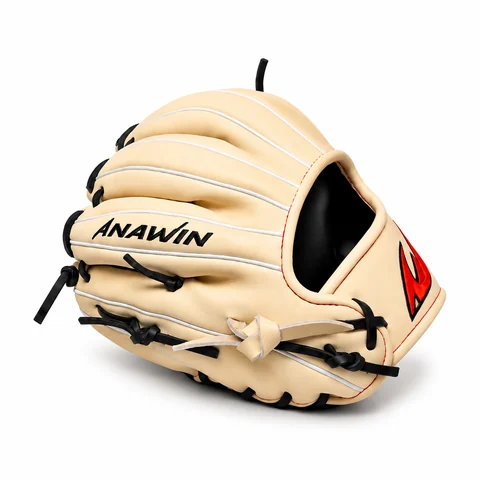
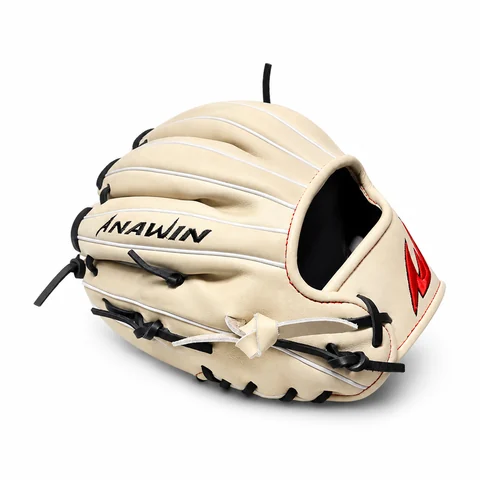
Set CM24 price to 285 and update finger-side photo

Changed region(s): [[0.0625, 0.125, 0.9375, 0.875], [0.5625, 0.3438, 0.5938, 0.375], [0.5625, 0.2812, 0.5938, 0.3125]]

diff --git a/src/catalog.js b/src/catalog.js
@@ -87,7 +87,7 @@ const fullSizeAngles = Object.freeze([
 const fullSizePhotoSizes = Object.freeze({
   mint: { back: 1254, palm: 1202, side: 1254, 'finger-side': 1254 },
   black: { back: 1271, palm: 1276, side: 1442, 'finger-side': 1208 },
-  camel: { back: 1198, palm: 1244, side: 612, 'finger-side': 1230 },
+  camel: { back: 1198, palm: 1244, side: 612, 'finger-side': 1119 },
   orange: { back: 456, palm: 408, side: 1206, 'finger-side': 522 }
 });
 const fullSizePhotos = (color, tone) => fullSizeAngles.map(([angle, view]) => ({
@@ -126,7 +126,7 @@ export const fullSizeProducts = Object.freeze([
   {
     id: 'full-mint', color: 'mint', name: 'MI26', line: 'full-size', comingSoon: true,
     title: 'Mint 12″ Japanese Kip Pitcher’s Glove', descriptor: '12″ Japanese Kip Pitcher’s Glove',
-    price: 290, currencyCode: 'USD', throwHands: bothThrowHands,
+    price: 285, currencyCode: 'USD', throwHands: bothThrowHands,
     pitch: 'A 12-inch Japanese Kip pitcher’s glove with a closed web and an external index finger hood. The solid panel helps keep your grip out of view on the mound, and the carved design on the outside gives this glove its signature look. If you wear your index finger outside the glove, you can tuck it under the hood.',
     specs: fullSizeSpecs('12', 'Pitcher', 'Closed web with a carved outer design', [['Index finger', 'External finger hood'], ['Wrist lining', 'Fur']], bothThrowHands),
     metaDescription: 'ANAWIN Mint is a 12-inch Japanese Kip pitcher’s glove with a carved closed web and index finger hood. Choose right-hand or left-hand throw.',
@@ -135,7 +135,7 @@ export const fullSizeProducts = Object.freeze([
   {
     id: 'full-black', color: 'black', name: 'BL50', line: 'full-size', comingSoon: true,
     title: 'Black 12.75″ Japanese Kip Outfield Glove', descriptor: '12.75″ Japanese Kip Outfield Glove',
-    price: 290, currencyCode: 'USD', throwHands: bothThrowHands,
+    price: 285, currencyCode: 'USD', throwHands: bothThrowHands,
     pitch: 'A 12.75-inch Japanese Kip glove built for the outfield. It’s the longest model in the ANAWIN Kip Series and pairs that extra length with an open H-web. A carved ANAWIN logo on the thumb adds detail to the all-black design.',
     specs: fullSizeSpecs('12.75', 'Outfield', 'H-web', [['Thumb detail', 'Carved ANAWIN logo'], ['Wrist lining', 'Fur']], bothThrowHands),
     metaDescription: 'ANAWIN Black is a 12.75-inch Japanese Kip outfield glove with an H-web and carved thumb logo. Choose right-hand or left-hand throw.',
@@ -144,7 +144,7 @@ export const fullSizeProducts = Object.freeze([
   {
     id: 'full-camel', color: 'camel', name: 'CM24', line: 'full-size', comingSoon: true,
     title: 'Camel 11.5″ Japanese Kip Infield Glove', descriptor: '11.5″ Japanese Kip Infield Glove',
-    price: 290, currencyCode: 'USD', throwHands: rightHandOnly,
+    price: 285, currencyCode: 'USD', throwHands: rightHandOnly,
     pitch: 'An 11.5-inch Japanese Kip infield glove with a Diamond web. Camel is the more compact of the two infield models. Inside, every finger stall is lined with sheepskin, and a moisture-wicking pad sits at the wrist.',
     specs: fullSizeSpecs('11.5', 'Infield', 'Diamond web', [['Finger stall lining', 'Sheepskin in all finger stalls'], ['Wrist', 'Moisture-wicking pad']], rightHandOnly),
     metaDescription: 'ANAWIN Camel is an 11.5-inch Japanese Kip infield glove with a Diamond web, sheepskin-lined finger stalls, and a moisture-wicking wrist pad.',
@@ -153,7 +153,7 @@ export const fullSizeProducts = Object.freeze([
   {
     id: 'full-orange', color: 'orange', name: 'OR17', line: 'full-size', comingSoon: true,
     title: 'Orange 11.75″ Japanese Kip Infield Glove', descriptor: '11.75″ Japanese Kip Infield Glove',
-    price: 290, currencyCode: 'USD', throwHands: bothThrowHands,
+    price: 285, currencyCode: 'USD', throwHands: bothThrowHands,
     pitch: 'An 11.75-inch Japanese Kip infield glove with a Modified T-web. Orange is the larger of the two infield models in the ANAWIN Kip Series, giving you a quarter inch more length than Camel. The thumb features a carved ANAWIN logo, and the Modified T-web makes sure you swallow every ball in the infield.',
     specs: fullSizeSpecs('11.75', 'Infield', 'Modified T-web', [['Thumb detail', 'Carved ANAWIN logo'], ['Wrist lining', 'Fur']], bothThrowHands),
     metaDescription: 'ANAWIN Orange is an 11.75-inch Japanese Kip infield glove with a Modified T-web, a carved thumb logo, and a fur wrist lining. Choose right-hand or left-hand throw.',
